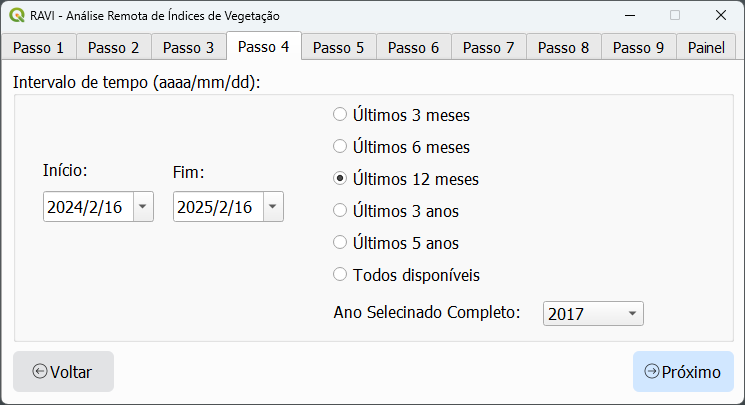
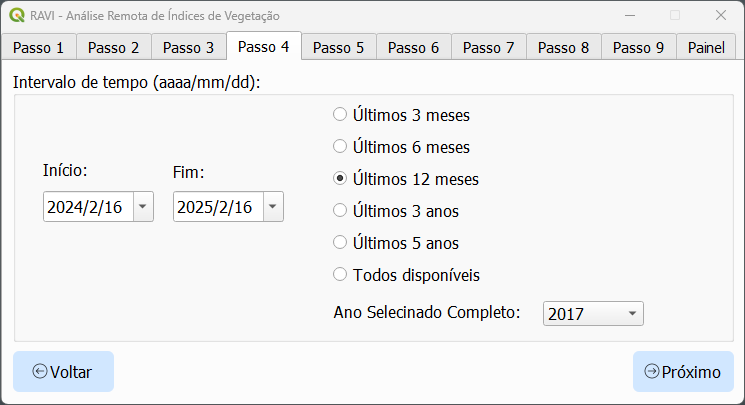
up

Changed region(s): [[0.0, 0.8593, 0.1544, 0.9778], [0.0309, 0.0296, 0.3705, 0.0593], [0.957, 0.0296, 0.9879, 0.0593]]

diff --git a/index.html b/index.html
@@ -849,14 +849,14 @@
             <h3 id="pt-passo8">Passo 8: Filtro de porcentagem de pixels nublados</h3>
             <img src="media_pt/step8.png" alt="Interface para configurar filtro de porcentagem de pixels nublados"
               aria-label="Screenshot da interface para configurar o filtro de porcentagem de pixels nublados.">
-            <p>Configure o filtro de porcentagem de pixels nublados conforme os requisitos da análise.</p>
+            <p>Configure o filtro de conforme os requisitos da análise.</p>
           </section>
 
           <section>
             <h3 id="pt-passo9">Passo 9: Filtro de porcentagem de pixels válidos</h3>
             <img src="media_pt/step9.png" alt="Interface para configurar filtro de porcentagem de pixels válidos"
               aria-label="Screenshot da interface para configurar o filtro de porcentagem de pixels válidos.">
-            <p>Configure o filtro de porcentagem de pixels válidos conforme os requisitos da análise.</p>
+            <p>Configure o filtro conforme os requisitos da análise.</p>
           </section>
         </section>
 
